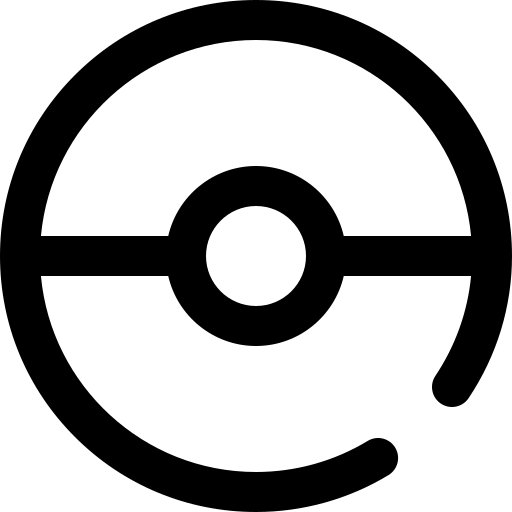
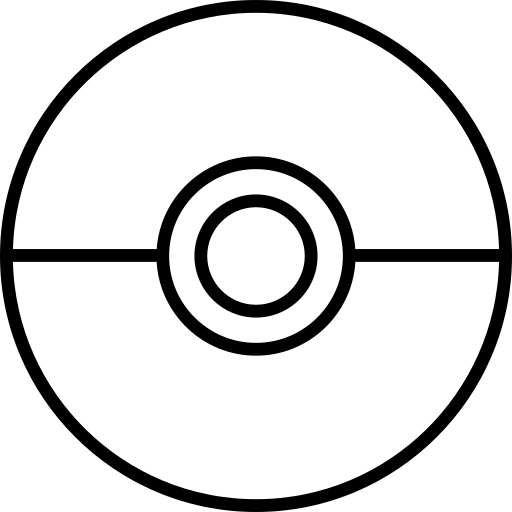
added pokeball to previewcard

Changed region(s): [[0.0, 0.0, 1.0, 1.0]]

diff --git a/js/script.js b/js/script.js
@@ -65,14 +65,18 @@ function createPreviewCardHTML(pokemon) {
     return /*html*/ `
     <div onclick="openPokedex(${i})" class="previewCard" style = "background-color: ${findColor(pokemon, type)}">
       <div class="previewCard-Pokemon-Id h5">#${pokemon['id']}</div>            
-      <div class="d-flex w-100">
-          <div class="previewCard-details">
-            <div class="Pokemon-Name h5">${pokemon['name']}</div>
-            <div class="pokemon-type-tag" style = "background-color: ${findColorTag(pokemon, type)}">${type}</div> 
-            ${secondType}
-          </div> 
-          <img src="${pokemon['sprites']['other']['official-artwork']['front_default']}"/>
-      </div>
+      <div class="d-flex w-100 previewCard-content">
+            <div class="previewCard-details test:after">
+                <div class="Pokemon-Name h5">${pokemon['name']}</div>
+                <div class="pokemon-type-tag" style = "background-color: ${findColorTag(pokemon, type)}">${type}</div> 
+                ${secondType}
+            </div> 
+           
+            <img class="previewCardImg" src="${pokemon['sprites']['other']['official-artwork']['front_default']}"/>
+            <img class="pokeball" src="img/pokeball.png" alt="">     
+               
+           
+        </div>
     </div>
 `;
 }
@@ -113,22 +117,28 @@ function createPokemonCardHTML(pokemon) {
     return /*html*/ `
         <div class="detail" id="detailID" style = "background-color: ${findColor(pokemon, type)}">              
             <!--  DETAIL HEADER   -->   
-            <div class="detail-header">
-                <div onclick="closePokedex()" class="close-card">
-                    <svg class="arrow" clip-rule="evenodd" fill-rule="evenodd" stroke-linejoin="round" stroke-miterlimit="2" viewBox="0 0 24 24" xmlns="http://www.w3.org/2000/svg"><path d="m12 10.93 5.719-5.72c.146-.146.339-.219.531-.219.404 0 .75.324.75.749 0 .193-.073.385-.219.532l-5.72 5.719 5.719 5.719c.147.147.22.339.22.531 0 .427-.349.75-.75.75-.192 0-.385-.073-.531-.219l-5.719-5.719-5.719 5.719c-.146.146-.339.219-.531.219-.401 0-.75-.323-.75-.75 0-.192.073-.384.22-.531l5.719-5.719-5.72-5.719c-.146-.147-.219-.339-.219-.532 0-.425.346-.749.75-.749.192 0 .385.073.531.219z"/></svg>
+            
+                <div class="detail-header">
+                    
+                        <div onclick="closePokedex()" class="close-card">
+                            <svg class="arrow" clip-rule="evenodd" fill-rule="evenodd" stroke-linejoin="round" stroke-miterlimit="2" viewBox="0 0 24 24" xmlns="http://www.w3.org/2000/svg"><path d="m12 10.93 5.719-5.72c.146-.146.339-.219.531-.219.404 0 .75.324.75.749 0 .193-.073.385-.219.532l-5.72 5.719 5.719 5.719c.147.147.22.339.22.531 0 .427-.349.75-.75.75-.192 0-.385-.073-.531-.219l-5.719-5.719-5.719 5.719c-.146.146-.339.219-.531.219-.401 0-.75-.323-.75-.75 0-.192.073-.384.22-.531l5.719-5.719-5.72-5.719c-.146-.147-.219-.339-.219-.532 0-.425.346-.749.75-.749.192 0 .385.073.531.219z"/></svg>
+                        </div>
+                        <div class="pokemonCard-id h5">#${i}</div>
+                        <div class="types-container">
+                            <div class="Pokemon-Name h3">${pokemon['name']}</div>
+                            <div class="pokemon-type-tag " style = "background-color: ${findColorTag(pokemon, type)}">${type}</div>
+                            ${secondType}  
+                        </div>
+                        <div class="pokemonImage-container">
+                            <div class="pokemonImage-background" style = "background-color: ${findColorTag(pokemon, type)}">
+                                <img class="pokemonImage" src="${pokemon['sprites']['other']['official-artwork']['front_default']}"/>
+                            
+                            </div>
+                           
+                        </div>
+                        <!-- <img class="pokeball" src="img/pokeball.png" alt=""> -->
                 </div>
-                <div class="pokemonCard-id h5">#${i}</div>
-                <div class="types-container">
-                    <div class="Pokemon-Name h3">${pokemon['name']}</div>
-                    <div class="pokemon-type-tag " style = "background-color: ${findColorTag(pokemon, type)}">${type}</div>
-                    ${secondType}  
-                </div>
-                <div class="pokemonImage-container">
-                    <div class="pokemonImage-background" style = "background-color: ${findColorTag(pokemon, type)}">
-                        <img class="pokemonImage" src="${pokemon['sprites']['other']['official-artwork']['front_default']}"/>
-                    </div>
-                </div>
-            </div>
+
             <!--  DETAIL FOOTER   -->
             <div>
                 <div class="back-forward">                    

diff --git a/css/style.css b/css/style.css
@@ -38,7 +38,9 @@ a:hover {
 .d-none {
     display: none;
 }
-
+.previewCard-content{
+    position: relative;
+}
 .previewCard {
     border-radius: 20px;
     /* border: 3px solid; */
@@ -50,11 +52,15 @@ a:hover {
     color: white;
     font-size: medium;
     width: 300px;
+    overflow: hidden;
 }
-
-.previewCard img {
+/* .previewCard-images{
+    position: relative;
+} */
+.previewCardImg {
     height: 150px;
     width: 150px;
+    z-index: 2;
 }
 
 .previewCard:hover {
@@ -122,11 +128,14 @@ a:hover {
     display: flex;
     justify-content: flex-start;
     flex-direction: column;
+    position: relative;
     width: 100%;
     background-color: white;
     border-radius: 20px;
     padding: 8px;
 }
+
+
  
 .close-card {
     display: flex;
@@ -162,6 +171,7 @@ a:hover {
 .pokemonImage-background {
     display: flex;
     justify-content: center;
+    position: relative;
     height: 230px;
     width: 230px;
     border: 4px solid;
@@ -171,6 +181,16 @@ a:hover {
 .pokemonImage {
     height: 220px;
     width: 220px;
+    z-index: 1;
+}
+
+.pokeball{
+   
+    opacity: 0.5;
+    position: absolute;
+    width: 90%;
+    left: 130px;
+    top: -10px;       
 }
 
 /* --------------------------------------DETAIL_FOOTER------------------------------------------ */
@@ -310,6 +330,7 @@ a:hover {
         height: 200px;
         width: 200px;
     }
+    
 
     .navigation-container {
         padding: 0px 5px 0px 5px;
